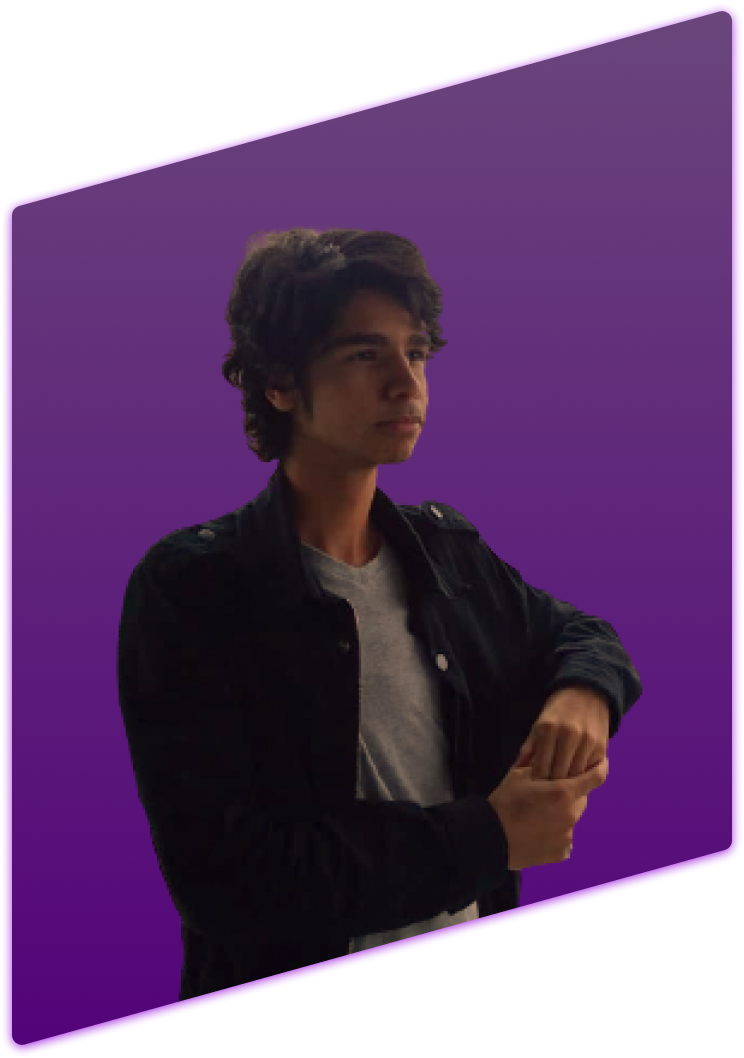
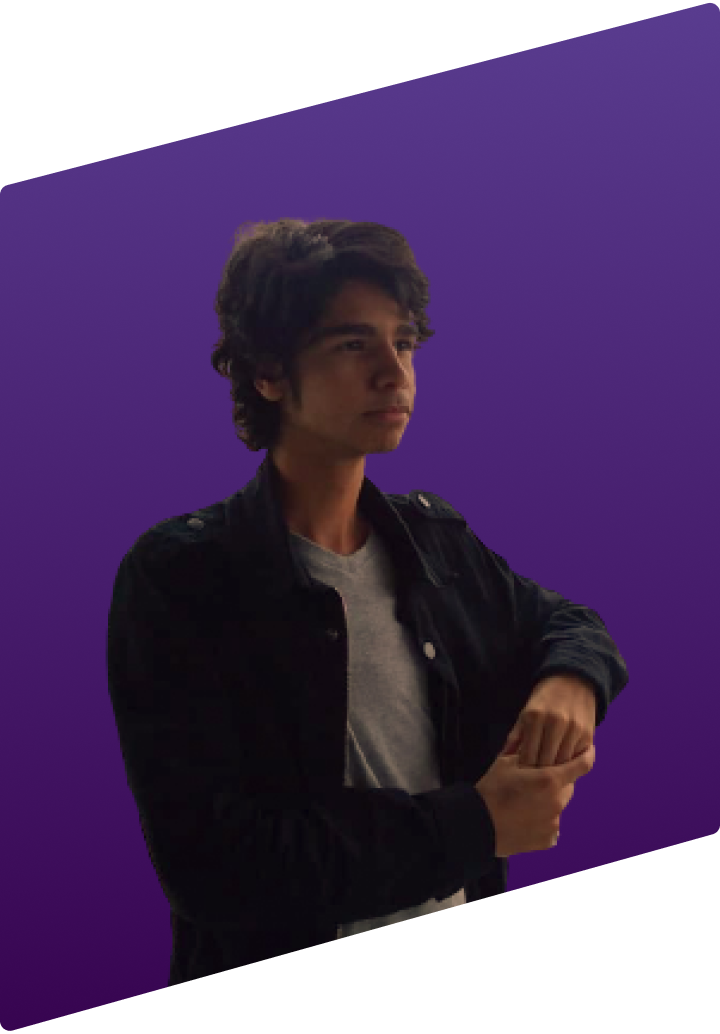
finishing responsive design

diff --git a/css/formation.css b/css/formation.css
@@ -186,3 +186,60 @@ span {
     margin: 0;
   }
 }
+@media (min-width: 800px) {
+  .education {
+    width: auto;
+    padding: 5rem 10.5rem;
+    margin: 0;
+    display: flex;
+    flex-direction: column;
+    gap: 0;
+  }
+  .education .subtitle {
+    font-size: 1.75rem;
+    line-height: 2.5rem;
+    margin: 0;
+  }
+  .educationText {
+    font-size: 1rem;
+    margin: 0;
+    padding: 2rem 0 0 0;
+  }
+  .education h3 {
+    margin: 1rem 0;
+    font-size: 1.5rem;
+  }
+  .education h3::after {
+    content: "";
+    width: 0;
+    height: 0;
+  }
+  .coursesContainer {
+    display: flex;
+    flex-direction: column;
+    margin: 0;
+    gap: 36px;
+  }
+
+  .containerCard h2 {
+    font-size: 1rem;
+  }
+  .containerCard p,
+  span {
+    font-size: 0.9rem;
+  }
+  .education h4 {
+    margin: 3rem 0 1rem 0;
+    font-size: 1.5rem;
+  }
+  .education h4::after {
+    content: "";
+    width: 0;
+    height: 0;
+  }
+  .languages {
+    display: flex;
+    flex-direction: column;
+    margin: 0;
+  }
+}

diff --git a/index.html b/index.html
@@ -37,8 +37,6 @@
           Desenvolvedor <br />
           Front-End && <br />UI/UX Designer
         </h1>
-
-        <p>Jundiaí-SP</p>
       </div>
     </main>
     <section class="experience" id="experience" aria-label="experience">
@@ -97,14 +95,19 @@
       </a>
       <div class="footerTexts">
         <p>felipe.rios12@outlook.com</p>
-        <p>+55 11 95814-4571</p>
+        <p>
+          <a class="flexIcon" href="https://www.github.com/felipe-a-rios">
+            <img src="./icons/github.svg" alt="github logo" />
+            github
+          </a>
+        </p>
 
         <p>
           <a
-            class="linkedin"
+            class="flexIcon"
             href="https://www.linkedin.com/in/felipe-rios-dev/"
           >
-            <img src="./icons/linkedin.svg" alt="" />
+            <img src="./icons/linkedin.svg" alt="linkedin logo" />
             felipe-rios-dev
           </a>
         </p>

diff --git a/css/intro.css b/css/intro.css
@@ -1,12 +1,13 @@
 .intro {
-  max-width: 100vw;
-  padding: 0.62rem 1.25rem;
-  margin: 116px 140px;
+  //max-width: 100vw;
+  padding: 0px 1.25rem;
+  margin: 70px 140px;
   display: grid;
   grid-template-columns: 1fr 2fr;
-  gap: 135px;
+  gap: 136px;
   align-items: center;
 }
+
 .intro h1 {
   font-family: "JetBrains Mono";
   color: #d9bce7;
@@ -69,5 +70,31 @@
   .intro img {
     height: 0;
     width: 0;
+  }
+}
+@media (min-width: 800px) {
+  .intro {
+    width: auto;
+    padding: 5rem 10.5rem;
+    margin: 0;
+    display: flex;
+
+    gap: 56px;
+  }
+  .intro h1 {
+    font-size: 1.75rem;
+    line-height: 2.5rem;
+    align-self: center;
+  }
+  .intro h1::before,
+  .intro p::before {
+    content: "";
+    background: transparent;
+    width: 0;
+    height: 0;
+  }
+  .intro img {
+    height: 200px;
+    width: 100;
   }
 }

diff --git a/css/footer.css b/css/footer.css
@@ -22,11 +22,16 @@ a {
   text-decoration: none;
 }
 
-.linkedin {
+.flexIcon {
   display: flex;
   text-align: center;
   align-items: center;
   gap: 8px;
+}
+.footerTexts {
+  display: flex;
+  flex-direction: column;
+  gap: 20px;
 }
 @media (max-width: 480px) {
   .footer {
@@ -52,8 +57,28 @@ a {
   a {
     font-size: 1rem;
   }
-  .linkedin img {
-    height: 30px;
-    width: 30px;
+}
+@media (min-width: 800px) {
+  .footer {
+    width: auto;
+    padding: 2rem 10.5rem;
+
+    display: flex;
+    flex-direction: column;
+    gap: 36px;
+    align-items: center;
+  }
+  .footerLogo {
+    margin: 0;
+    height: auto;
+    width: auto;
+  }
+  .footerLogo img {
+    height: 200px;
+    width: 130px;
+  }
+  .footer p,
+  a {
+    font-size: 1rem;
   }
 }

diff --git a/css/experience.css b/css/experience.css
@@ -1,6 +1,6 @@
 .experience {
-  padding: 110px 0 50px 160px;
-  background: #383838;
+  padding: 0px 0 50px 160px;
+
   height: 100%;
 }
 .experienceText {
@@ -16,6 +16,29 @@
   .experience {
     width: auto;
     padding: 5rem 3rem;
+    margin: 0;
+    display: flex;
+    flex-direction: column;
+    gap: 0;
+    //background: red;
+    align-items: flex-start;
+  }
+  .experience .subtitle {
+    font-size: 1.75rem;
+    line-height: 2.5rem;
+    margin: 0;
+    padding: 0;
+  }
+  .experienceText {
+    font-size: 1rem;
+    margin: 0;
+    padding: 2rem 0 0 0;
+  }
+}
+@media (min-width: 800px) {
+  .experience {
+    width: auto;
+    padding: 2rem 10.5rem;
     margin: 0;
     display: flex;
     flex-direction: column;
